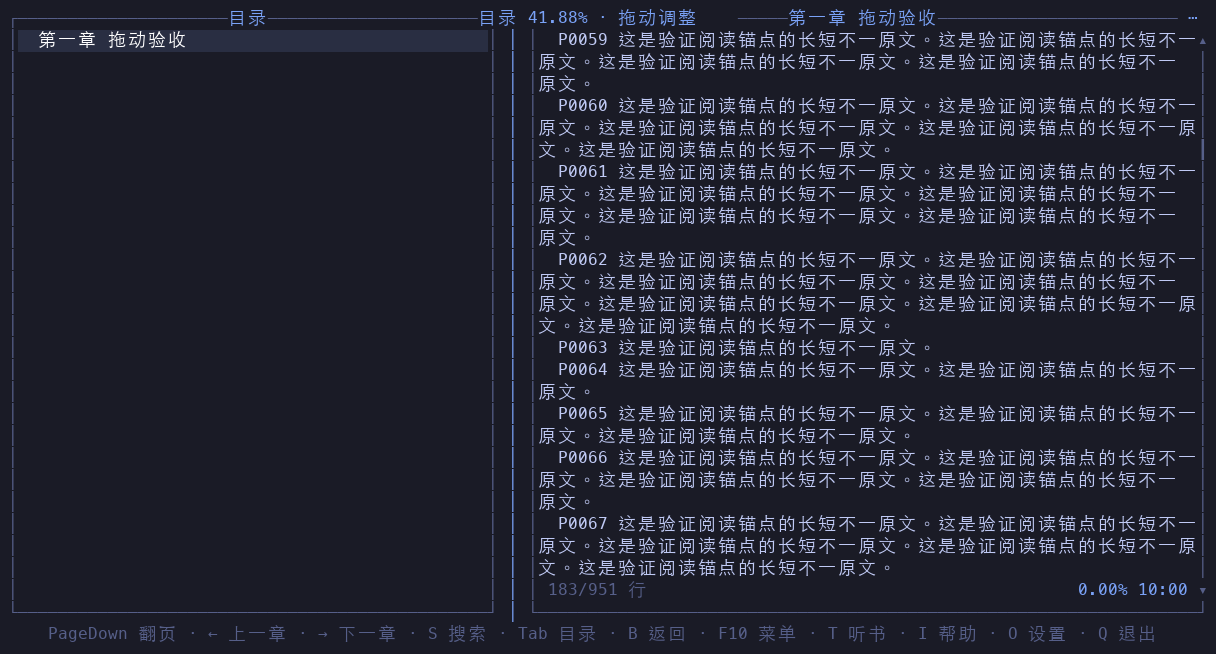
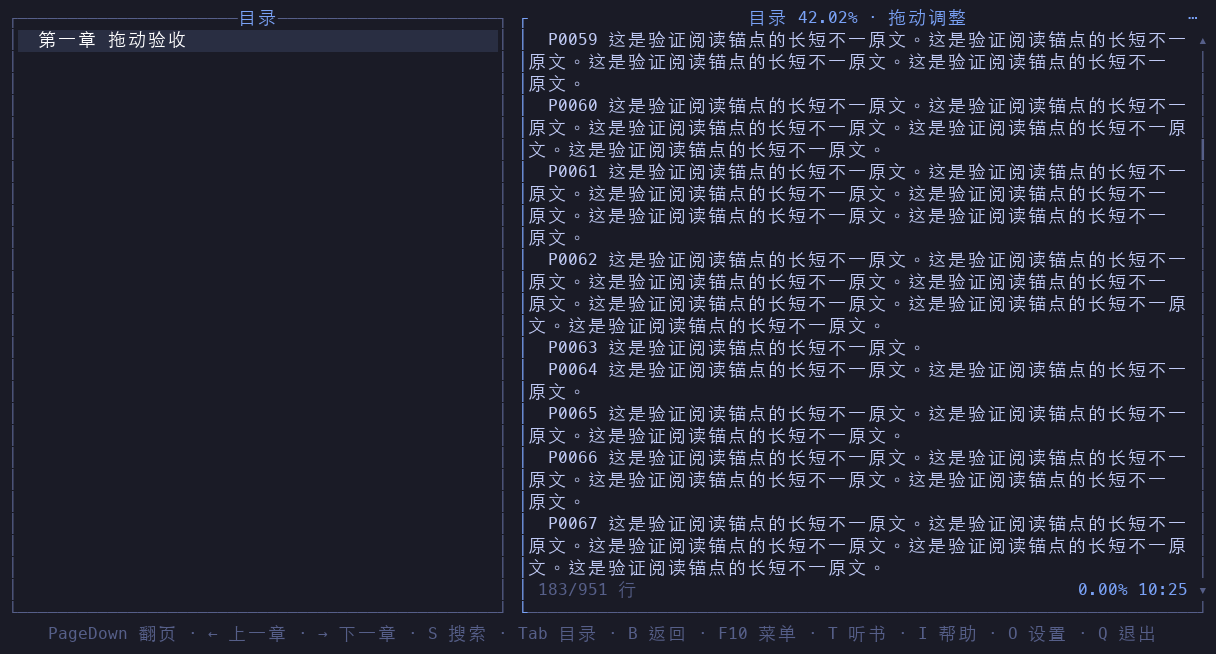
refactor(reader): integrate pane resizing into body border

Changed region(s): [[0.375, 0.0, 1.0, 0.948], [0.1875, 0.0, 0.2188, 0.0612]]

diff --git a/src/pages/read_novel/splitter.rs b/src/pages/read_novel/splitter.rs
@@ -4,12 +4,11 @@ use ratatui::{
     buffer::Buffer,
     layout::{Constraint, Rect},
     style::Modifier,
-    text::Line,
     widgets::Widget,
 };
 use ratatui_kit::prelude::*;
 
-pub const HANDLE_WIDTH: u16 = 3;
+pub const GUTTER_WIDTH: u16 = 1;
 const MIN_DIRECTORY: u16 = 18;
 const MIN_BODY: u16 = 30;
 #[derive(Debug, Clone, Copy, PartialEq, Eq)]
@@ -20,7 +19,7 @@ pub struct PaneLayout {
 }
 impl PaneLayout {
     pub fn new(width: u16, preference: TocWidth) -> Option<Self> {
-        let available = width.saturating_sub(HANDLE_WIDTH);
+        let available = width.saturating_sub(GUTTER_WIDTH);
         if available < MIN_DIRECTORY + MIN_BODY {
             return None;
         }
@@ -111,26 +110,36 @@ pub fn PaneDivider(props: &PaneDividerProps, mut hooks: Hooks) -> impl Into<AnyE
         let feedback = props.on_feedback.clone();
         move || feedback.call(false)
     });
-    let content = DividerWidget {
-        style: if highlight {
-            theme.highlight.add_modifier(Modifier::BOLD)
-        } else {
-            theme.border
-        },
+    let content = BorderHighlight {
+        highlight,
+        framed: display.read().frameline != crate::Frameline::None,
+        style: theme.highlight.add_modifier(Modifier::BOLD),
     };
-    element!(View(width:Constraint::Length(HANDLE_WIDTH),height:Constraint::Fill(1)){widget(content)})
+    element!(View(width:Constraint::Fill(1),height:Constraint::Fill(1)){widget(content)})
 }
+/// Transparent overlay: style the existing border cells without replacing their symbols.
 #[derive(Clone)]
-struct DividerWidget {
+struct BorderHighlight {
+    highlight: bool,
+    framed: bool,
     style: ratatui::style::Style,
 }
-impl Widget for DividerWidget {
+impl Widget for BorderHighlight {
     fn render(self, area: Rect, buffer: &mut Buffer) {
+        if !self.highlight || area.is_empty() {
+            return;
+        }
+        let area = Rect::new(area.right() - 1, area.y, 1, area.height).intersection(buffer.area);
+        if area.is_empty() {
+            return;
+        }
+        let x = area.x;
         for y in area.y..area.bottom() {
-            Line::styled("│", self.style).render(
-                Rect::new(area.x + area.width / 2, y, u16::from(area.width > 0), 1),
-                buffer,
-            );
+            let cell = &mut buffer[(x, y)];
+            if !self.framed {
+                cell.set_symbol("│");
+            }
+            cell.set_style(self.style);
         }
     }
 }
@@ -138,13 +147,43 @@ impl Widget for DividerWidget {
 mod tests {
     use super::*;
     #[test]
-    fn geometry_preserves_both_panes_and_a_separate_handle() {
-        assert!(PaneLayout::new(50, TocWidth::default()).is_none());
-        for width in 51..300 {
+    fn hover_preserves_frame_symbols_and_clips_during_resize() {
+        use ratatui::{
+            style::Style,
+            widgets::{Block, Borders},
+        };
+        for frame in crate::Frameline::ALL {
+            if frame == crate::Frameline::None {
+                continue;
+            }
+            let area = Rect::new(0, 0, 10, 6);
+            let mut buffer = Buffer::empty(area);
+            Block::default()
+                .borders(Borders::ALL)
+                .border_set(frame.border_set())
+                .render(area, &mut buffer);
+            let symbols: Vec<_> = (0..6).map(|y| buffer[(0, y)].symbol().to_owned()).collect();
+            BorderHighlight {
+                highlight: true,
+                framed: true,
+                style: Style::new().add_modifier(Modifier::BOLD),
+            }
+            .render(Rect::new(0, 0, 1, 9), &mut buffer);
+            for y in 0..6 {
+                assert_eq!(buffer[(0, y)].symbol(), symbols[usize::from(y)]);
+                assert!(buffer[(0, y)].modifier.contains(Modifier::BOLD));
+                assert!(!buffer[(1, y)].modifier.contains(Modifier::BOLD));
+            }
+        }
+    }
+    #[test]
+    fn geometry_preserves_both_panes_and_one_blank_gutter() {
+        assert!(PaneLayout::new(48, TocWidth::default()).is_none());
+        for width in 49..300 {
             for percent in [1.0, 32.15, 50.0, 99.0] {
                 let layout = PaneLayout::new(width, TocWidth::from_percent(percent)).unwrap();
                 assert!(layout.directory >= 18 && layout.body >= 30);
-                assert_eq!(layout.directory + layout.body + HANDLE_WIDTH, width);
+                assert_eq!(layout.directory + layout.body + GUTTER_WIDTH, width);
             }
         }
     }

diff --git a/src/pages/read_novel.rs b/src/pages/read_novel.rs
@@ -486,11 +486,7 @@ where
                 )
                 }
                 if let Some(layout)=panes {
-                    splitter::PaneDivider(..splitter::PaneDividerProps {
-                        layout,
-                        active: !info_modal_open.get(),
-                        on_feedback: crate::hooks::callback(move |visible| resize_feedback.set(visible)),
-                    })
+                    View(width:Constraint::Length(splitter::GUTTER_WIDTH))
                 ReadContent(
                     reflow:Some(reflow),
                     content: content.read().clone(),
@@ -526,16 +522,34 @@ where
                 )
             })
         } }
-        // Page-level feedback must not be clipped to the three-column handle.
+        // Positioned uses drawing coordinates. Only the gutter and existing border are hit;
+        // the directory scrollbar and the first body text column remain outside the overlay.
+        if !is_read_mode.get() {
+            if let Some(layout)=panes {
+                Positioned(
+                    x:size.x + layout.directory,
+                    y:size.y,
+                    width:splitter::GUTTER_WIDTH + display.frameline.inset(),
+                    height:reader_height.saturating_sub(hint_rows),
+                ) {
+                    splitter::PaneDivider(..splitter::PaneDividerProps {
+                        layout,
+                        active: !info_modal_open.get(),
+                        on_feedback: crate::hooks::callback(move |visible| resize_feedback.set(visible)),
+                    })
+                }
+            }
+        }
+        // Keep the hint outside the narrow border overlay to avoid clipping.
         Modal(
             open: resize_feedback.get() && !is_read_mode.get() && !info_modal_open.get() && panes.is_some(),
             blocks_lower: Some(false),
             style: ratatui::style::Style::default().remove_modifier(ratatui::style::Modifier::DIM),
             placement: Placement::TopLeft,
-            offset: Offset{x:i32::from((pane_width.saturating_sub(26))/2),y:i32::from(size.y)},
-            width: Constraint::Length(26),height: Constraint::Length(1),
+            offset: Offset{x:i32::from(size.x + panes.map_or(0, |layout| layout.directory + splitter::GUTTER_WIDTH + display.frameline.inset())),y:i32::from(size.y)},
+            width: Constraint::Length(panes.map_or(0, |layout| layout.body.saturating_sub(2 * display.frameline.inset()))),height: Constraint::Length(1),
         ) {
-            Text(text:format!("目录 {} · 拖动调整",display.toc_width.label()),style:theme.chapter)
+            widget(Line::from(format!("目录 {} · 拖动调整",display.toc_width.label())).style(theme.chapter).centered())
         }
         // 快捷提示条固定在整屏最后一行,边框之外;关掉时占 0 行。
         View(height: Constraint::Length(hint_rows), margin: Margin::new(1, 0)) {

diff --git a/tests/pty/reader_panes.py b/tests/pty/reader_panes.py
@@ -19,7 +19,7 @@ def percentage(a):
     return a.config().get('reader', {}).get('toc_width_percent', 50)
 
 def divider(a):
-    available = a.screen.columns - 3
+    available = a.screen.columns - 1
     columns = min(available - 30, max(18, int(available * percentage(a) / 100 + .5)))
     return columns + 1, 10
 
@@ -154,4 +154,44 @@ try:
     a.save('restored-width')
 finally:
     a.close()
-print('PASS: independent hover, capture/clamping/release, stable reflow, resize/mode cancellation, narrow panes, numeric/reset and persisted width')
+# Border styles use the existing glyphs, including corners; the outside gutter
+# is a second drag target without stealing the scrollbar or body text column.
+for style, vertical, corner in [('single', '│', '┌'), ('double', '║', '╔'), ('rounded', '│', '╭'), ('thick', '┃', '┏'), ('none', None, None)]:
+    a = App(f'[appearance]\nshow_header=true\nconfirm_exit=false\n[reader]\nframeline="{style}"\n', novel=NOVEL)
+    try:
+        open_reader(a)
+        x, y = divider(a)
+        gutter = x - 1
+        assert a.screen.buffer[y][gutter].data == ' ', a.text()
+        before = a.config()
+        if vertical:
+            assert a.screen.buffer[y][x].data == vertical, a.text()
+            corners = [(row, a.screen.buffer[row][x].data) for row in range(a.screen.lines) if a.screen.buffer[row][x].data == corner]
+            assert corners, a.text()
+            a.move(x, y)
+            assert a.screen.buffer[y][x].bold, a.text()
+            assert all(a.screen.buffer[row][x].data == glyph for row, glyph in corners)
+        # Hover outside the border highlights it; borderless only paints in the gutter.
+        a.move(gutter, y)
+        assert a.screen.buffer[y][gutter].data == (' ' if vertical else '│'), a.text()
+        assert '拖动调整' in a.text(), a.text()
+        assert a.config() == before
+        a.save('border-' + style + '-hover')
+        a.move(x + 2, y)
+        assert '拖动调整' not in a.text(), a.text()
+        assert a.screen.buffer[y][gutter].data == ' '
+        # Body text and TOC scrollbar must not initiate horizontal resizing.
+        for target in [x if vertical is None else x + 1, gutter - 1]:
+            pointer(a, 0, target, y)
+            pointer(a, 32, target + 8, y)
+            release(a, target + 8, y)
+            assert percentage(a) == 50, a.config()
+        pointer(a, 0, gutter, y)
+        pointer(a, 32, gutter + 6, y)
+        release(a, gutter + 6, y)
+        assert percentage(a) > 50, a.config()
+        a.move(0,0)
+        a.save('border-' + style + '-rest')
+    finally:
+        a.close()
+print('PASS: border/gutter hover and capture, every frame style, corners, borderless text/scrollbar isolation, reflow, resize cancellation and persistence')

diff --git a/dev-notes/resizable-reader-panes-acceptance.md b/dev-notes/resizable-reader-panes-acceptance.md
@@ -1,19 +1,21 @@
 # 目录拖拽与描边阅读按钮验收
 
-日期：2026-11-16。基线 `fc31c85`。方案：`openspec/changes/resizable-reader-panes/`。
+日期：2026-11-16。初始基线 `fc31c85`；本次边框交互调整基线 `7a20f74`。方案：`openspec/changes/resizable-reader-panes/`。
 
 ## 行为与结构
 
 - `TocWidth` 保存连续百分比（内部整数基点），配置为 `[reader].toc_width_percent`，默认 50%。按用户要求删除旧三档类型、选择器、别名和兼容读取，不做迁移。
 - 阅读与全局设置共用数值控件，每次调整一个百分点；“重置目录宽度”只恢复宽度，不改其它偏好。保存沿用共用的有序防抖与卸载 flush。
-- `PaneLayout` 集中计算三列拖动区、目录至少 18 列和正文至少 30 列；不足 51 列时目录单栏。拖动使用按下起点计算，捕获可覆盖条外区域；释放后不再调整。仅改变窗口高度、窗口宽度、切换视图和覆盖浮层均结束拖动。
-- 分隔条独立于目录滚动条，hover 高亮；百分比提示放在阅读页浮层，避免被三列组件裁剪。
+- `PaneLayout` 集中计算一列留白、目录至少 18 列和正文至少 30 列；不足 49 列时目录单栏。拖动使用按下起点计算，捕获可覆盖条外区域；释放后不再调整。仅改变窗口高度、窗口宽度、切换视图和覆盖浮层均结束拖动。
+- 拖动入口合并到正文左边框及外侧一列留白，取消独立竖线；目录滚动条和正文首列不属于热区。hover 直接修改既有边框的颜色和粗细，单线、双线、圆角、粗线与拐角字符均保留。无边框时仅在留白 hover/拖动期间显示临时竖线。百分比提示放在正文顶边内部的页面浮层，避开拐角并避免被窄热区裁剪。
 - 原文字节锚点及上一版布局由阅读页持有，跨预览、全屏正文、窄窗口隐藏与恢复保留。连续重排不重复取新行首，避免逐步漂移；不同书籍/章节/内容有独立身份。搜索定位和播放跟随保留原有优先级，原文和听书偏移不变。
 - `OutlinedButton` 与退出确认共用描边、主题和稳定回调；详情阅读按钮仍固定底部居中，整框可点，加载禁用，原键盘动作保留。
 
 ## 验证
 
-通过全功能 workspace lib/tests/examples、严格 Clippy、格式、严格 rustdoc、无默认和仅 TTS lib 测试、两种主程序构建、文档站构建、严格 OpenSpec 校验。
+初次实现通过全功能 workspace lib/tests/examples、严格 Clippy、格式、严格 rustdoc、无默认和仅 TTS lib 测试、两种主程序构建、文档站构建、严格 OpenSpec 校验。
+
+本次边框交互调整复跑全功能 workspace lib/tests/examples、严格 Clippy、格式、严格 rustdoc、全功能程序构建、文档站构建和严格 OpenSpec 校验；真实 PTY 复跑 reader_panes 和 settings_surfaces。
 
 真实 PTY 使用隔离 HOME，不访问真实书站、不启动真实模型：
 
@@ -25,7 +27,9 @@ uv run tests/pty/settings_tabs.py
 uv run tests/pty/settings_surfaces.py
 ```
 
-新增回归包括：hover 不改配置；连续拖动往返保持混合长短段落位置；捕获后拖出并在目录区域释放不选章；释放后移动不改值；分别改变终端宽、高取消；40 列目录单栏与正文切换；预览隐藏后恢复不同宽度和反复 Tab 保持锚点；百分比加减、明确重置、退出和重启恢复。详情按钮测试点击上边框角进入缓存第二章，禁用和 hover 也保留。
+边框调整新增回归：所有边框样式及无边框在显示 header 时的热区、高亮、拐角、外侧留白拖动、首列文字及目录滚动条互不干扰；窗口缩小的首帧定位层按实际 buffer 裁剪，避免沿用上一帧高度越界。
+
+原有回归包括：hover 不改配置；连续拖动往返保持混合长短段落位置；捕获后拖出并在目录区域释放不选章；释放后移动不改值；分别改变终端宽、高取消；40 列目录单栏与正文切换；预览隐藏后恢复不同宽度和反复 Tab 保持锚点；百分比加减、明确重置、退出和重启恢复。详情按钮测试点击上边框角进入缓存第二章，禁用和 hover 也保留。
 
 运行 feature 构建时不要覆盖 PTY 正在使用的程序，可通过 `TRNOVEL_TEST_BINARY` 指向固定副本，`TRNOVEL_TEST_ARTIFACTS` 保存字符网格与颜色。
 
@@ -39,7 +43,7 @@ uv run tests/pty/settings_surfaces.py
 
 下图来自真实 PTY 字符和颜色网格导出，不是设计稿。
 
-![分隔条 hover 与百分比反馈](images/resizable-reader-panes/hover.png)
+![正文左边框 hover 与百分比反馈](images/resizable-reader-panes/hover.png)
 
 ![自定义目录宽度](images/resizable-reader-panes/custom-width.png)
 
@@ -48,3 +52,7 @@ uv run tests/pty/settings_surfaces.py
 ![窄窗口单栏目录](images/resizable-reader-panes/narrow-directory.png)
 
 ![底部描边阅读按钮](images/resizable-reader-panes/reading-button-compact.png)
+
+![无边框模式仅在留白显示临时拖动指示](images/resizable-reader-panes/border-none-hover.png)
+
+![无边框模式移开鼠标后无额外竖线](images/resizable-reader-panes/border-none-rest.png)

diff --git a/dev-notes/knowledge/tui-ratatui-kit.md b/dev-notes/knowledge/tui-ratatui-kit.md
@@ -785,7 +785,7 @@ TTSManager 的听书、声音、高级三个页复用父页当帧输入层。声
 
 ### 连续目录宽度与重排锚点
 
-目录偏好为 `TocWidth`（整数基点，序列化为 `toc_width_percent`），不再保留三档枚举或兼容解析。`PaneLayout` 是几何和最小列宽的唯一计算处；三个命中列与目录滚动条独立，鼠标 `use_drag` 以起点累计位移计算，不能把增量误当绝对位置，也不能在每帧重复加总累计位移。任何终端宽/高变化、视图切换或浮层覆盖都清理拖动状态。
+目录偏好为 `TocWidth`（整数基点，序列化为 `toc_width_percent`），不再保留三档枚举或兼容解析。`PaneLayout` 是几何和最小列宽的唯一计算处；正文左边框与外侧一列留白组成命中区，与目录滚动条独立，鼠标 `use_drag` 以起点累计位移计算，不能把增量误当绝对位置，也不能在每帧重复加总累计位移。任何终端宽/高变化、视图切换或浮层覆盖都清理拖动状态。
 
 连续重排要记住同一原文字节锚点，不能每次把新行首当作下次锚点，否则拖动往返会逐渐向前漂移。`ContentLayout::byte_start` 与 `match_line` 共用原文范围，阅读页持有上一版布局和锚点，`ReadContent` 在相同内容/章节内重排时映射该锚点，跨单栏隐藏和 Tab 重挂载也保留；用户重新滚动后才重新取锚点。章末目标仍贴底，搜索及播放跟随保持自身优先级。
 
@@ -793,4 +793,4 @@ TTSManager 的听书、声音、高级三个页复用父页当帧输入层。声
 
 **相关文件**：`src/cache/setting/toc_width.rs`、`src/pages/read_novel/splitter.rs`、`src/pages/read_novel/read_content.rs`、`src/components/button.rs`、`tests/pty/reader_panes.py`。
 
-分隔条的百分比提示由阅读页绘制浮层，不要放在只有三列宽的组件子树中，否则被父级裁剪而不可见。分隔条只向页面报告 hover/拖动反馈状态。
+正文边框的拖动热区通过页面级 `Positioned` 透明覆盖（绘制坐标），只含外侧一列留白及已有边框；无边框时宽度只有一列，不挡首列正文。高亮直接修改已有 cell 样式，保留不同边框字符与拐角。窗口 resize 的第一帧 `use_previous_size` 仍是旧矩形，直接索引 buffer 前须与当前 `buffer.area` 取交集。百分比提示由阅读页绘制浮层，不要放在窄热区子树中，否则被父级裁剪；热区只向页面报告 hover/拖动反馈状态。

diff --git a/openspec/changes/resizable-reader-panes/design.md b/openspec/changes/resizable-reader-panes/design.md
@@ -1,9 +1,9 @@
 # 设计
 
-目录与正文之间预留三列独立拖动区，中间一列绘制分隔线，hover 和拖动高亮并显示当前百分比。复用 use_drag 的捕获和取消语义。以按下时的列宽和指针起点计算，拖出区域仍工作；弹窗切层、模式变化、窗口 resize 中断拖动，不额外提交取消动作。
+目录与正文之间只留一列空白，复用正文左边框作为拖动入口，不额外绘制分隔线。透明定位层覆盖这一列留白及现有左边框，hover 和拖动仅高亮已有边框字符并显示当前百分比，保留拐角及各边框样式。无边框时热区仅含留白，临时竖线只在 hover 或拖动时显示，不覆盖正文文字或目录滚动条。复用 use_drag 的捕获和取消语义。以按下时的列宽和指针起点计算，拖出区域仍工作；弹窗切层、模式变化、窗口 resize 中断拖动，不额外提交取消动作。
 
-偏好保存为 toc_width_percent 数值，精度百分之一，设置按一个百分点增减，默认 50%。删除旧三档类型与读取分支，不做配置迁移。有效分栏按实际区域扣三列拖动区，目录至少 18 列，正文至少 30 列；不足 51 列时目录模式只显示单栏目录，Tab 保留全屏正文。窗口大小变化不改偏好。
+偏好保存为 toc_width_percent 数值，精度百分之一，设置按一个百分点增减，默认 50%。删除旧三档类型与读取分支，不做配置迁移。有效分栏按实际区域扣一列留白，目录至少 18 列，正文至少 30 列；不足 49 列时目录模式只显示单栏目录，Tab 保留全屏正文。窗口大小变化不改偏好。
 
-设置增加明确的恢复默认操作。拖动过程中只更新内存偏好，沿用共享有序防抖保存；正文换行用页面持有的原文字节锚点保持阅读位置，跨单栏隐藏和 Tab 重挂载保留；提示浮层也由页面绘制，避免三列组件裁剪，不能重置章节、触发选章或翻页。
+设置增加明确的恢复默认操作。拖动过程中只更新内存偏好，沿用共享有序防抖保存；正文换行用页面持有的原文字节锚点保持阅读位置，跨单栏隐藏和 Tab 重挂载保留；提示浮层也由页面绘制，避免窄热区组件裁剪，不能重置章节、触发选章或翻页。
 
 阅读按钮抽取描边按钮组件，复用应用主题和稳定回调。保持底部居中、整框命中、加载禁用、键盘入口，窄窗口可用。

diff --git a/README.md b/README.md
@@ -96,7 +96,7 @@ trn -H            # 查看历史记录
 按阅读设置键可调：
 
 - **版式**：每行字数、首行缩进、段间空行、左右留白、翻页重叠；正文按显示宽度换行，首行缩进计入首行预算，中文标点不会落在行首、英文单词不会被拆开
-- **目录占宽**：拖动目录与正文之间的分隔条自由调整，默认 50%；设置中也可按百分点加减或恢复默认。比例自动保存，改变宽度时保持原文位置；两侧保留最小宽度，窗口不足 51 列时目录单栏显示，Tab 仍可切换正文。章节名按实际栏宽折行
+- **目录占宽**：拖动正文左边框或其外侧留白自由调整，默认 50%；设置中也可按百分点加减或恢复默认。比例自动保存，改变宽度时保持原文位置；两侧保留最小宽度，窗口不足 49 列时目录单栏显示，Tab 仍可切换正文。章节名按实际栏宽折行
 - **显示**：显示标题、边框标题、框底提示、页底提示、翻页留白、↑/↓ 翻页、跟随朗读（TTS 构建）
 - **标题**：「显示标题」控制界面额外绘制的章节标题，「边框标题」决定它放在边框上还是正文上方；关闭边框标题或使用无边框时回退到正文上方，正文已以相同标题开头时不再额外插入。开关不删改 TXT 原文中的标题行，也不改变搜索与听书定位；「边框标题」同时控制边框上的听书状态
 - **边框**：单线 / 圆角 / 双线 / 粗线 / 无边框

diff --git a/openspec/changes/resizable-reader-panes/specs/reader-panes/spec.md b/openspec/changes/resizable-reader-panes/specs/reader-panes/spec.md
@@ -7,7 +7,7 @@
 - **THEN** 偏好保留，恢复默认操作将其改回 50%
 
 ### Requirement: 直接拖动与安全边界
-分隔条 MUST 有独立命中区、hover、拖动反馈与指针捕获。两栏 MUST 保留最小可用宽度，窄窗口 MUST 退为单栏目录，Tab MUST 保留正文切换。resize 或浮层打开 MUST 取消拖动。
+正文左边框及其外侧一列留白 MUST 提供 hover、拖动反馈与指针捕获，不额外绘制常驻分隔线。无边框时 MUST 仅在留白命中，不覆盖正文文字；静止时不绘制临时指示线。各种边框字符及拐角 MUST 保留。两栏 MUST 保留最小可用宽度，窄窗口 MUST 退为单栏目录，Tab MUST 保留正文切换。resize 或浮层打开 MUST 取消拖动。
 #### Scenario: 拖出区域
 - **WHEN** 用户按住分隔条拖至区域外并释放
 - **THEN** 宽度钳制到可用边界，释放后移动不再改变宽度，且不选章不翻页

diff --git a/openspec/changes/resizable-reader-panes/tasks.md b/openspec/changes/resizable-reader-panes/tasks.md
@@ -2,3 +2,4 @@
 - [x] 分栏几何、拖拽与 hover、窄窗口和正文锚点。
 - [x] 底部描边阅读按钮，复用描边按钮与稳定回调。
 - [x] 单元、feature 与真实终端回归，截图、文档及复查。
+- [x] 拖动入口融入正文左边框，外侧留白热区、无边框临时提示及全边框样式回归。
